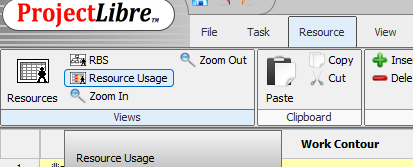
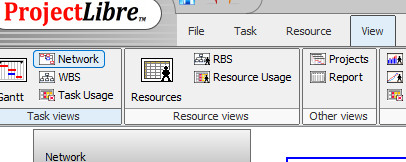
Asendatud Resource Usage Network diagrammiga

diff --git a/diagramm.html b/diagramm.html
@@ -24,7 +24,7 @@
 <main>
 
     <div class="goal-card">
-        <p>🎯 <strong>Eesmärk:</strong> Õpime, kuidas avada ja kasutada ProjectLibre's kahte olulist vaadet — Gantt-diagrammi ülesannete ajakava haldamiseks ning Resource Usage vaadet ressursside koormuse jälgimiseks.</p>
+        <p>🎯 <strong>Eesmärk:</strong> Õpime, kuidas avada ja kasutada ProjectLibre's kahte olulist vaadet — Gantt-diagrammi ülesannete ajakava haldamiseks ning Network diagrammi ülesannete sõltuvuste visuaalseks jälgimiseks.</p>
     </div>
 
     <section>
@@ -43,16 +43,16 @@
 
     <section>
         <span class="step-label">Samm 3</span>
-        <h2>Resource Usage avamine</h2>
-        <p>Ressursside graafikute vaatamiseks navigeeri vahekaardile <strong>Views</strong> ja vali sealt <strong>Resource Usage</strong>.</p>
-        <img src="projectLibreImg/res1.png" alt="Views → Resource Usage menüü">
+        <h2>Network diagrammi avamine</h2>
+        <p>Network diagrammi avamiseks navigeeri vahekaardile <strong>Views</strong> ja vali sealt <strong>Network</strong>.</p>
+        <img src="projectLibreImg/res1.png" alt="Views → Network menüü">
     </section>
 
     <section>
         <span class="step-label">Samm 4</span>
-        <h2>Resource Usage diagramm</h2>
-        <p>Avanevas vaates on loetletud kõik projektis kasutatavad ressursid — nii materiaalsed kui ka inimressursid. Iga ressursi kohta on näha tööaeg ning ülesanded, millega ta on seotud.</p>
-        <img src="projectLibreImg/res2.png" alt="Resource Usage diagramm ressursside ja tööajaga">
+        <h2>Network diagramm</h2>
+        <p>Avanevas vaates kuvatakse projekti ülesanded sõlmedena ning nende vahelised seosed nooltena. See võimaldab näha ülesannete järjekorda ja sõltuvusi visuaalselt.</p>
+        <img src="projectLibreImg/res2.png" alt="Network diagramm ülesannete sõltuvustega">
     </section>
 
 </main>

diff --git a/README.md b/README.md
@@ -146,7 +146,7 @@ Kõik ekraanipildid on tehtud käsitsi ProjectLibre tarkvarast ja laetakse otse 
 > [!TIP]
 > Pildid peavad asuma `projectLibreImg/` kaustas, muidu ei kuvata neid lehel.
 
-> [!WARNING]
+>    [!WARNING]
 > Ära muuda `style.css` muutujate nimesid — neid kasutatakse mõlemal lehel.
 
 ---
